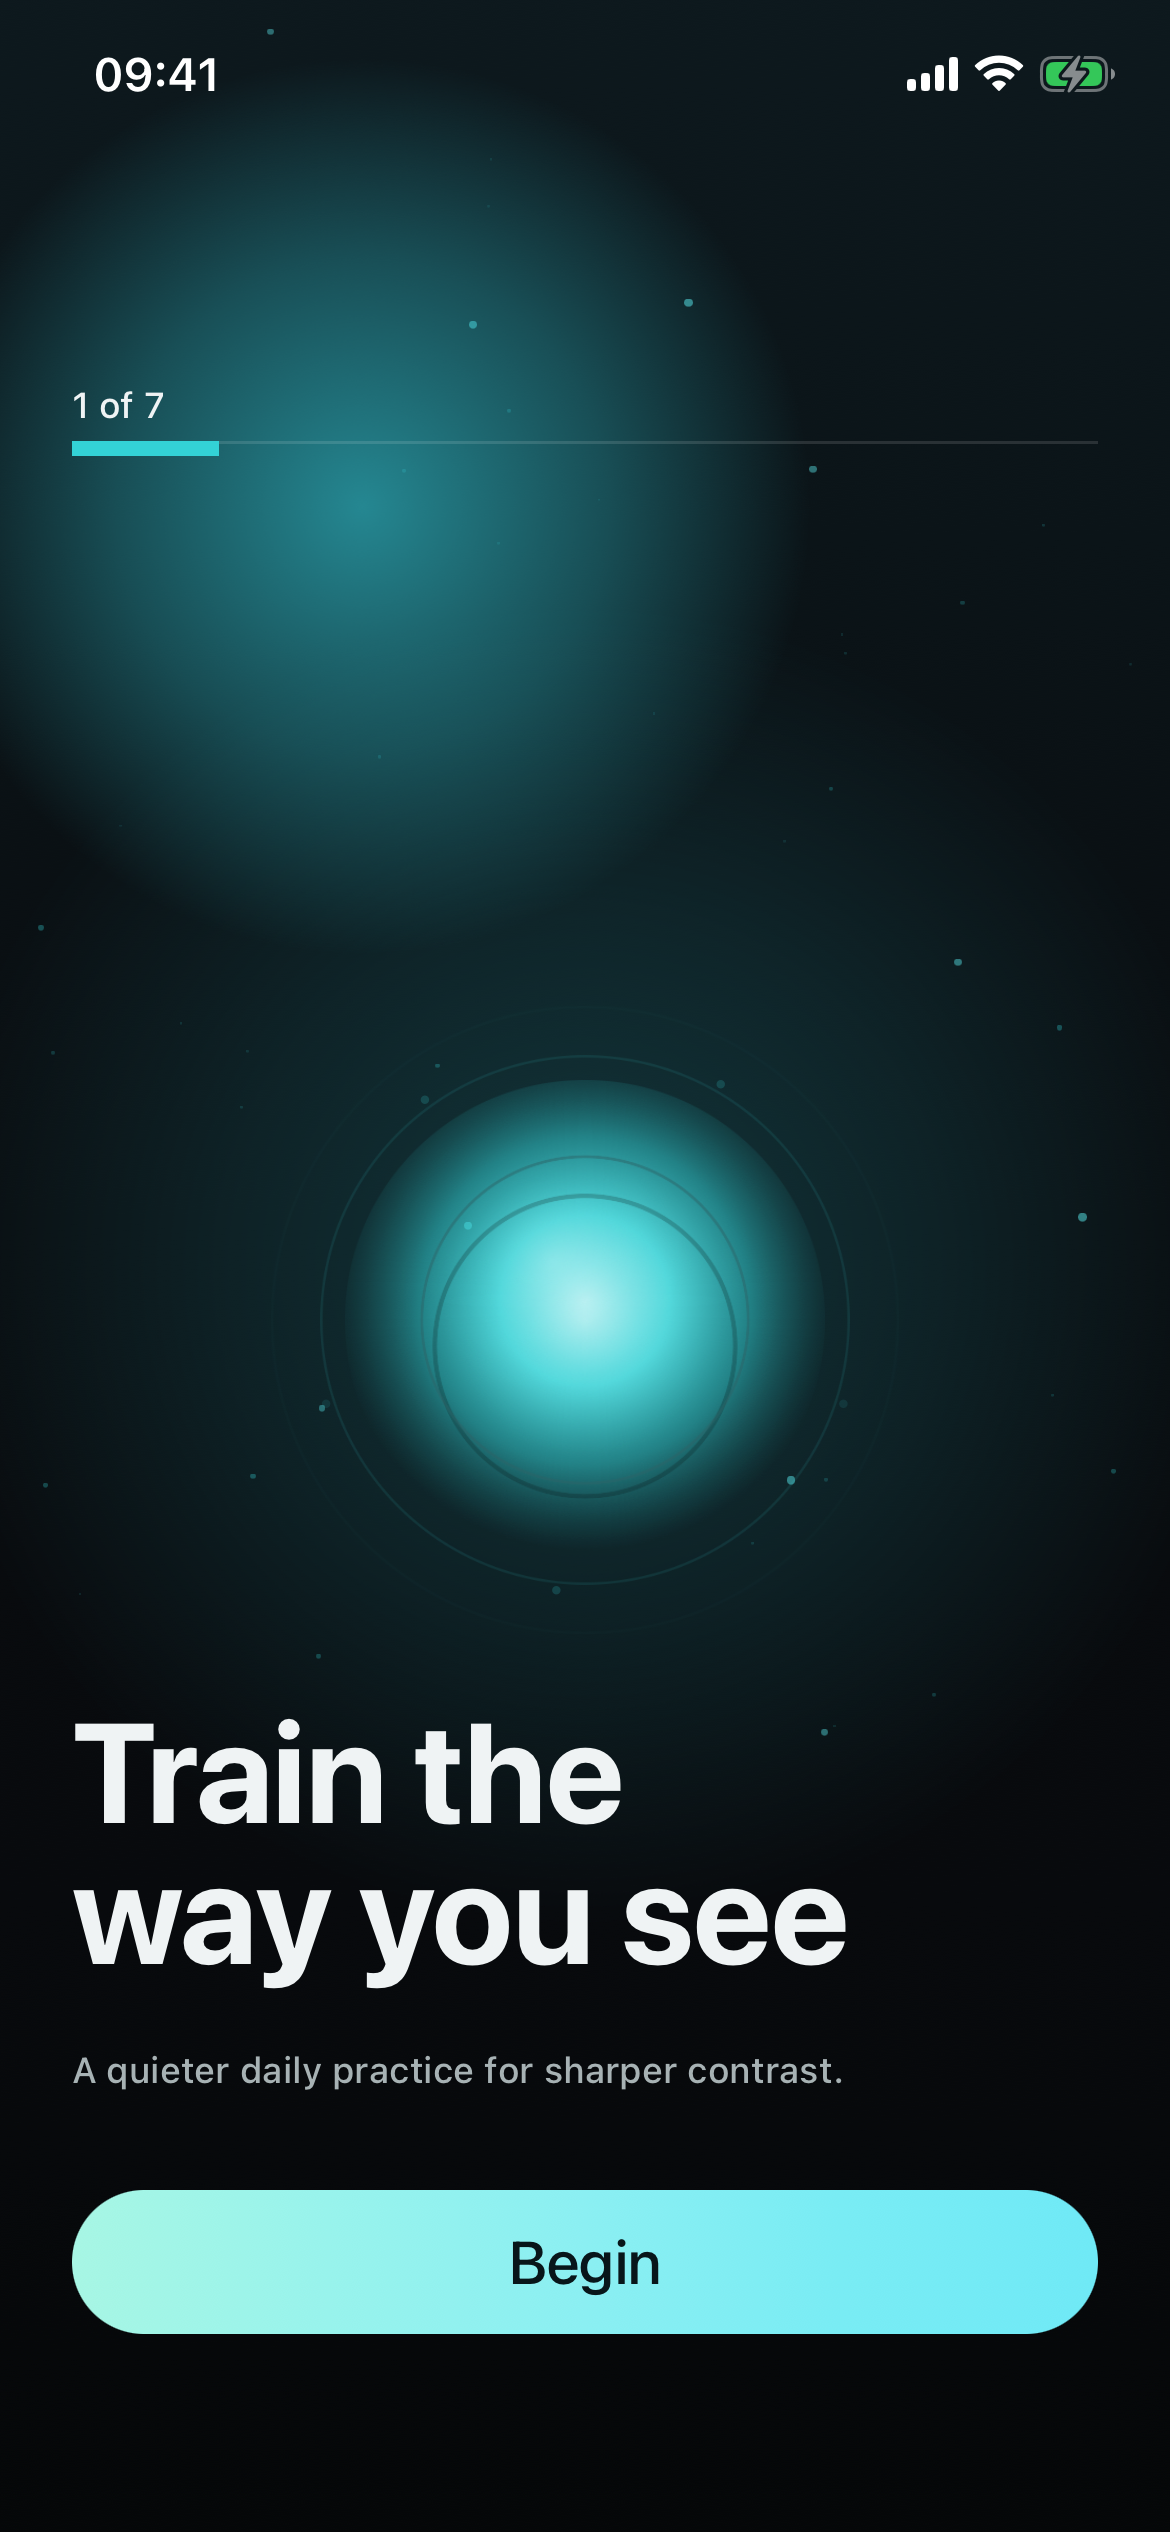
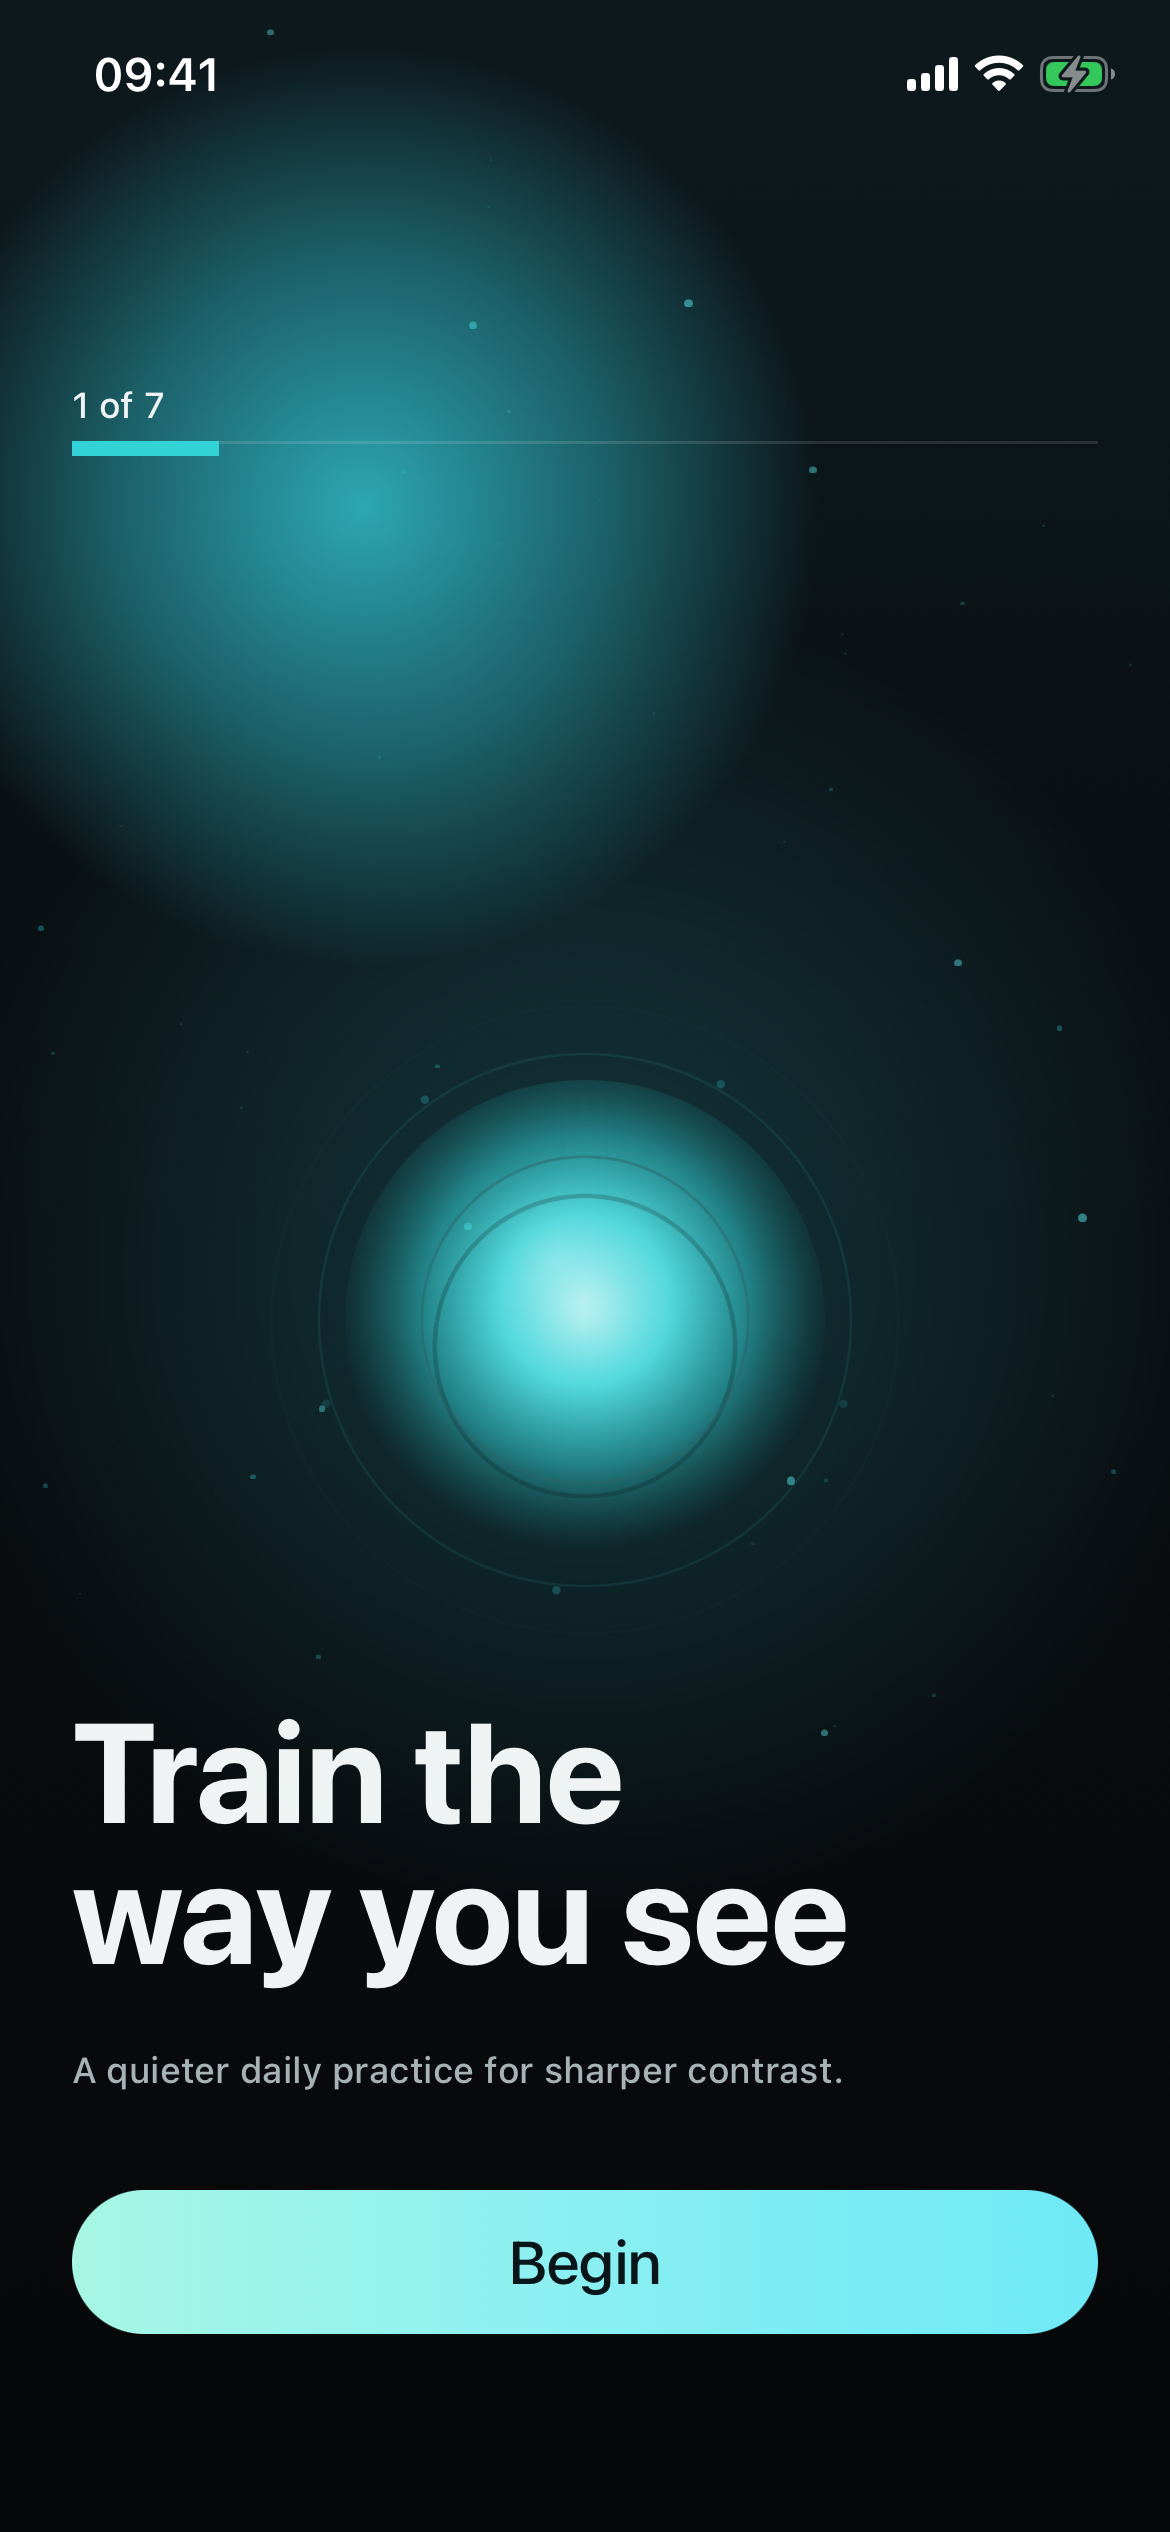
feat(today): arc = week completion (measured 256°=5/7 exact), filled done-day discs, human band label in meta
Today-wave from competitive benchmark. Arc and week strip now tell one story.

Claude-Session: https://claude.ai/code/session_01DUu4VHHUw2d3NshTRXgUbZ

Changed region(s): [[0.1538, 0.1248, 0.4615, 0.2808]]

diff --git a/src/app/(tabs)/index.tsx b/src/app/(tabs)/index.tsx
@@ -25,12 +25,12 @@ const DAYS = ['S', 'M', 'T', 'W', 'T', 'F', 'S'] as const;
 // week-strip law (VALIDATION.md #10): today = 35pt filled white circle w/ dark
 // text; state-cell box height = circle diameter so a plain digit and the
 // circle share one flexbox-centered axis (spec row 8) with no pixel math.
-// Dot re-measured at the Fable lock: the reference dot is a HOLLOW RING —
-// outer Ø 21px/7.0pt, stroke 3px/1.0pt on all four sides, center = pure
-// background (target.png days 8 & 11, PIL scanlines) — not a filled disc.
+// Orchestrator ruling (competitive benchmark, today wave): completed days
+// render as a FILLED Ø 7pt disc in accent.core, not the Fable-lock hollow
+// ring — legibility-at-a-glance beats the earlier measured hairline. The
+// hollow ring is reserved for a future "scheduled" state, not in use today.
 const TODAY_CIRCLE_DIAMETER = 35;
 const DOT_DIAMETER = 7;
-const DOT_STROKE = 1;
 
 type WeekRowProps = {
   activeIndex?: number;
@@ -142,6 +142,12 @@ function TodayContent({ data, reduceMotion, router }: TodayContentProps) {
   const navigatingRef = useRef(false);
   const discContrast =
     data.contrastSensitivity > 0 ? Math.min(1, 0.5 + data.contrastSensitivity * 0.22) : 0.32;
+  // Arc semantics (competitive benchmark, today wave): the arc and the week
+  // strip must tell the SAME story — fraction of this week's 7 days completed,
+  // not a coarse done/streak/half-filled guess. 0.08 floor keeps the head
+  // marker visible in the true zero-state (no days completed yet this week).
+  const completedThisWeek = data.weekDays.filter(Boolean).length;
+  const weekProgress = Math.max(completedThisWeek / 7, 0.08);
 
   useFocusEffect(
     useCallback(() => {
@@ -177,7 +183,7 @@ function TodayContent({ data, reduceMotion, router }: TodayContentProps) {
           <View style={styles.orbScale}>
             <CelestialGabor
               contrast={discContrast}
-              progress={data.sessionDoneToday ? 1 : data.streakDays === 0 ? 0.08 : 0.5}
+              progress={weekProgress}
               reduceMotion={reduceMotion}
               resolveOnMount
             />
@@ -261,13 +267,13 @@ export const styles = StyleSheet.create({
     alignItems: 'center',
     flex: 1,
   },
-  // week-strip Fable-lock re-measure: HOLLOW RING, outer Ø 7.0pt, 1.0pt stroke,
-  // transparent center; accent.core (the row's one "live" signal, hue-identical
+  // Filled Ø 7pt disc, accent.core (the row's one "live" signal, hue-identical
   // to the completed-digit tint — spec rows 15/16, color mapping unchanged).
+  // Was a hollow ring at the Fable lock; today-wave ruling swaps to a filled
+  // disc for legibility-at-a-glance — hollow stays reserved for "scheduled".
   dot: {
-    borderColor: accent.core,
+    backgroundColor: accent.core,
     borderRadius: DOT_DIAMETER / 2,
-    borderWidth: DOT_STROKE,
     height: DOT_DIAMETER,
     width: DOT_DIAMETER,
   },

diff --git a/src/presenters/useTodayData.ts b/src/presenters/useTodayData.ts
@@ -6,6 +6,7 @@ import { useAppStore } from '@/store/useAppStore';
 import { now } from '@/utils/clock';
 
 import { deriveTodayView } from './derive';
+import { humanBandLabel } from './reliability';
 import type { Loadable, TodayView } from './types';
 
 export function useTodayData(): Loadable<TodayView> {
@@ -34,15 +35,14 @@ export function useTodayData(): Loadable<TodayView> {
 
     return {
       ...view,
-      nextTargetLabel: `${formatCpd(nextTrainingBlock.condition.spatialFrequencyCpd)} cpd · 4 min`,
+      // Human label, not the raw cpd number — Progress screen keeps cpd for its
+      // per-contributor breakdown; Today's "Next" line reuses humanBandLabel's
+      // band mapping so a newcomer reads "Broad shapes", not "1.5 cpd".
+      nextTargetLabel: `${humanBandLabel(nextTrainingBlock.condition.spatialFrequencyCpd)} · 4 min`,
     };
     // refreshKey is an intentional extra dependency: it busts the memo when the
     // screen regains focus so "today" boundaries recompute against a fresh now().
     // eslint-disable-next-line react-hooks/exhaustive-deps
   }, [refreshKey, sessions, settings.visionGoal, thresholds]);
   return { data, isLoading: !hydrated };
-}
-
-function formatCpd(cpd: number): string {
-  return Number.isInteger(cpd) ? String(cpd) : cpd.toFixed(1);
 }

diff --git a/src/presenters/derive.ts b/src/presenters/derive.ts
@@ -212,7 +212,10 @@ export function deriveTodayView(
     todayIndex: index,
     weekDays,
     weekDates: dates,
-    nextTargetLabel: recent ? `${formatCpd(recent.spatialFrequencyCpd)} cpd · 4 min` : '6 cpd · 4 min',
+    // Human band label, not raw cpd — useTodayData overrides this with the
+    // next guided-protocol block's band when available; this is the fallback
+    // for when no next block resolves, kept in the same human vocabulary.
+    nextTargetLabel: recent ? `${humanBandLabel(recent.spatialFrequencyCpd)} · 4 min` : `${humanBandLabel(6)} · 4 min`,
     verdict: measurementConfidence.canDriveTrend ? verdictFromPercent(improvementPercent(usable)) : 'holding',
     measurementConfidence,
   };
